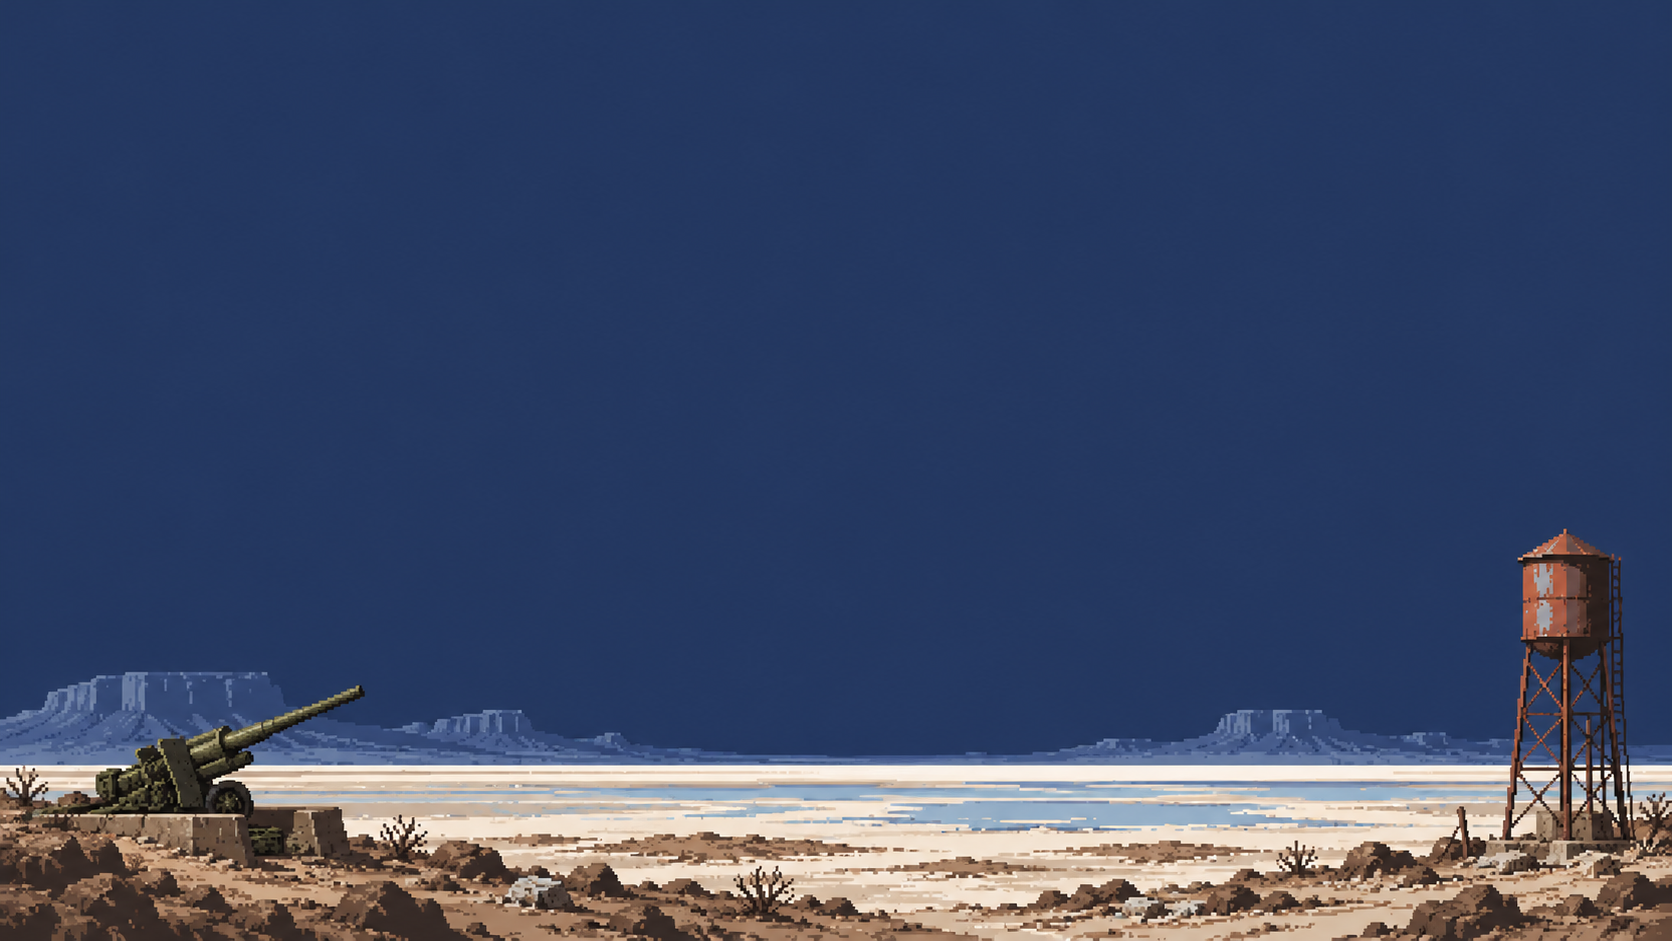
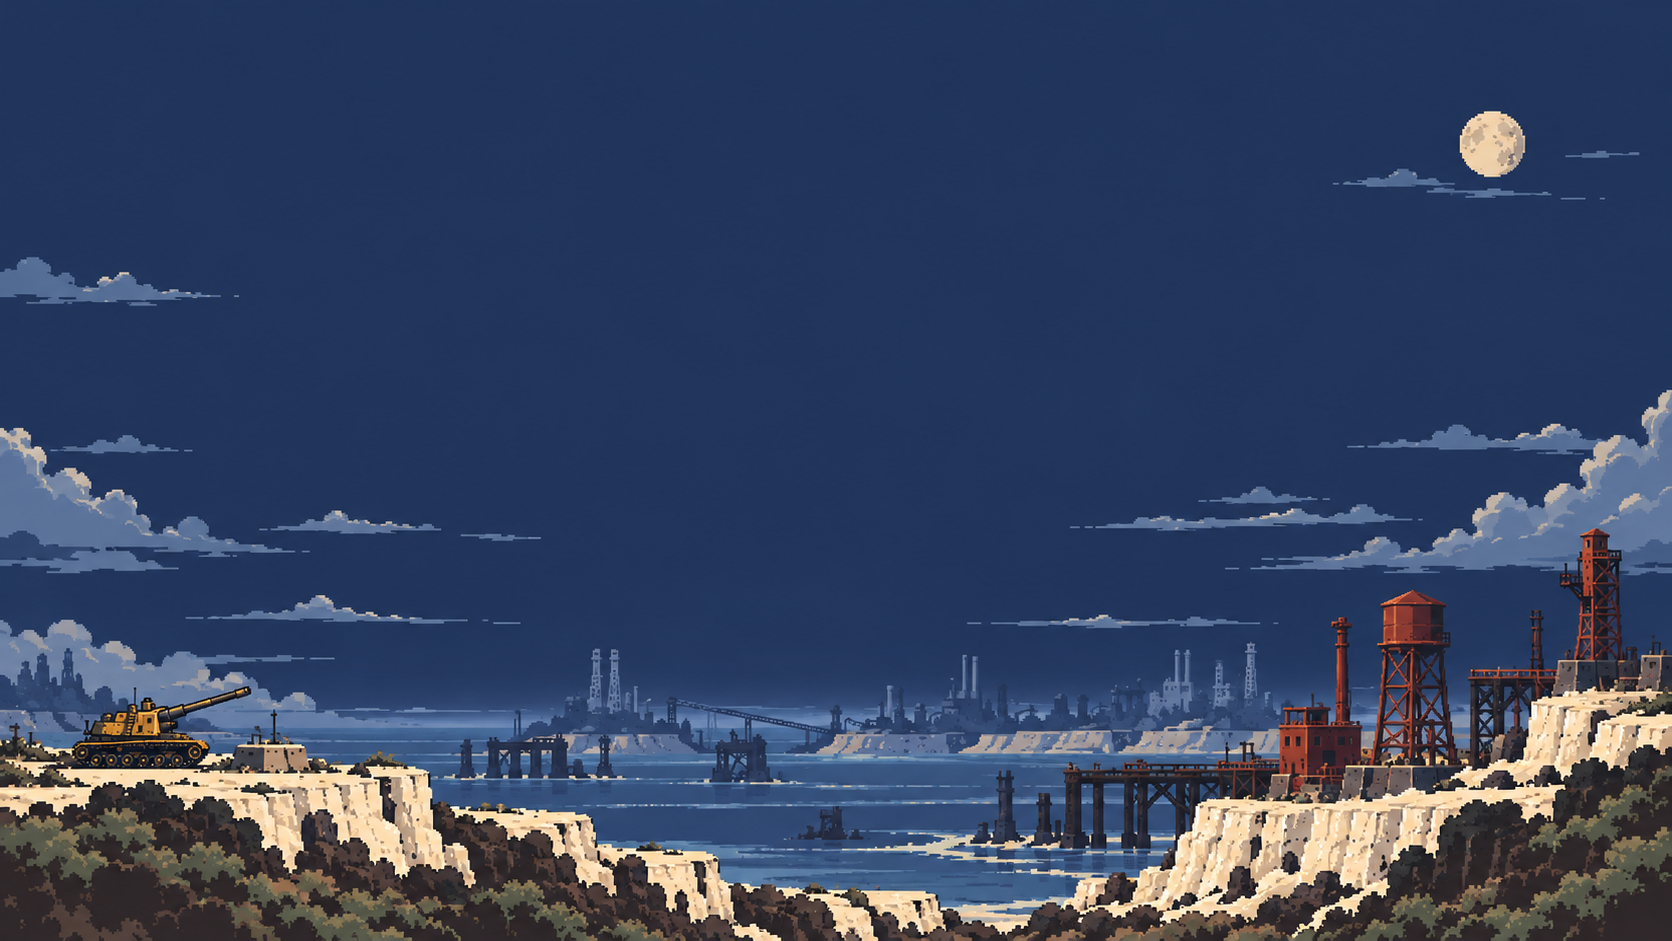
Refresh title screen with Iron and Chalk coastal artwork

diff --git a/crates/salt-line-godot/src/render.rs b/crates/salt-line-godot/src/render.rs
@@ -276,10 +276,23 @@ impl Painter<'_> {
         let tracking = 6;
         let tw = title.chars().count() as i32 * tracking;
         let tx = (w - tw) / 2;
+        if matches!(self.g.mode, Mode::Title) {
+            // An instrument-panel heading, using the same native grid and
+            // palette as the coast below it. Menu rows keep their hit areas.
+            self.canvas
+                .hline(tx - 12, tx + tw + 10, y + 8, pal.get(slot::HULL_EDGE));
+            self.canvas.rect(tx - 10, y + 1, 3, 3, alert);
+            self.canvas.rect(tx + tw + 6, y + 1, 3, 3, alert);
+        }
+        let title_colour = if matches!(self.g.mode, Mode::Title) {
+            fg
+        } else {
+            alert
+        };
         for (i, ch) in title.chars().enumerate() {
             let s = ch.to_string();
             self.canvas
-                .text_small(tx + i as i32 * tracking, y, &s, alert);
+                .text_small(tx + i as i32 * tracking, y, &s, title_colour);
         }
         y += 12;
 

diff --git a/tools/build_title_art.py b/tools/build_title_art.py
@@ -1,0 +1,23 @@
+#!/usr/bin/env python3
+"""Normalize the authored title painting to the native grid and game palette."""
+from pathlib import Path
+from PIL import Image
+
+ROOT = Path(__file__).resolve().parents[1]
+
+
+def main():
+    with Image.open(ROOT / 'art/palette_16.png') as swatches:
+        colours = [swatches.convert('RGB').getpixel((int((i + .5) * swatches.width / 16), swatches.height // 4)) for i in range(16)]
+    palette = Image.new('P', (1, 1))
+    palette.putpalette([channel for colour in colours for channel in colour] * 16)
+    with Image.open(ROOT / 'art/source/title_salt_flat.png') as source:
+        native = source.convert('RGB').resize((320, 180), Image.Resampling.NEAREST)
+        native = native.quantize(palette=palette, dither=Image.Dither.NONE).convert('RGB')
+    native.save(ROOT / 'art/title_background_320x180.png')
+    assert len(native.getcolors(320 * 180)) <= 16
+    print('Title background: 320x180, fixed game palette')
+
+
+if __name__ == '__main__':
+    main()
